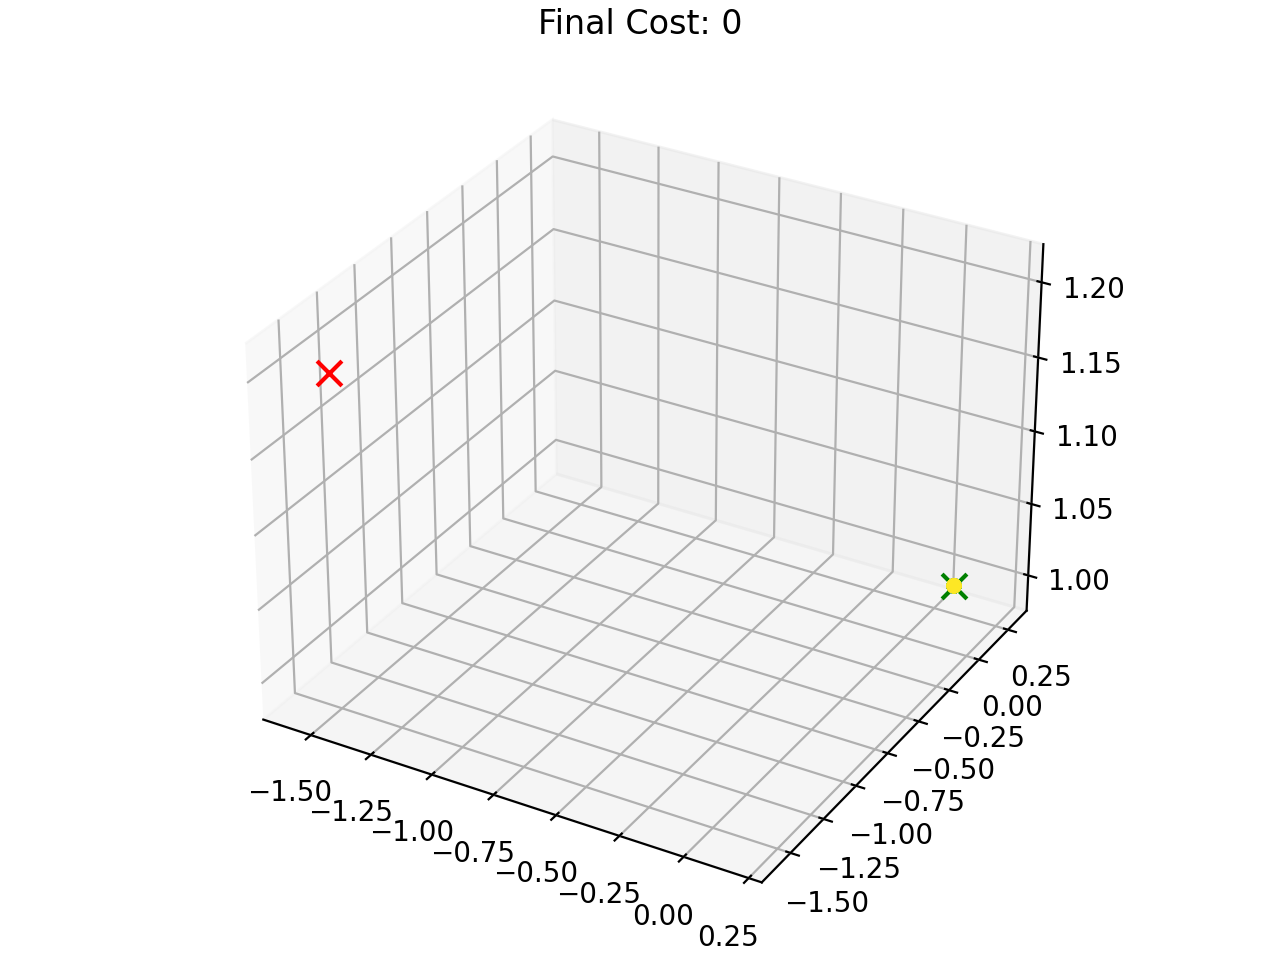
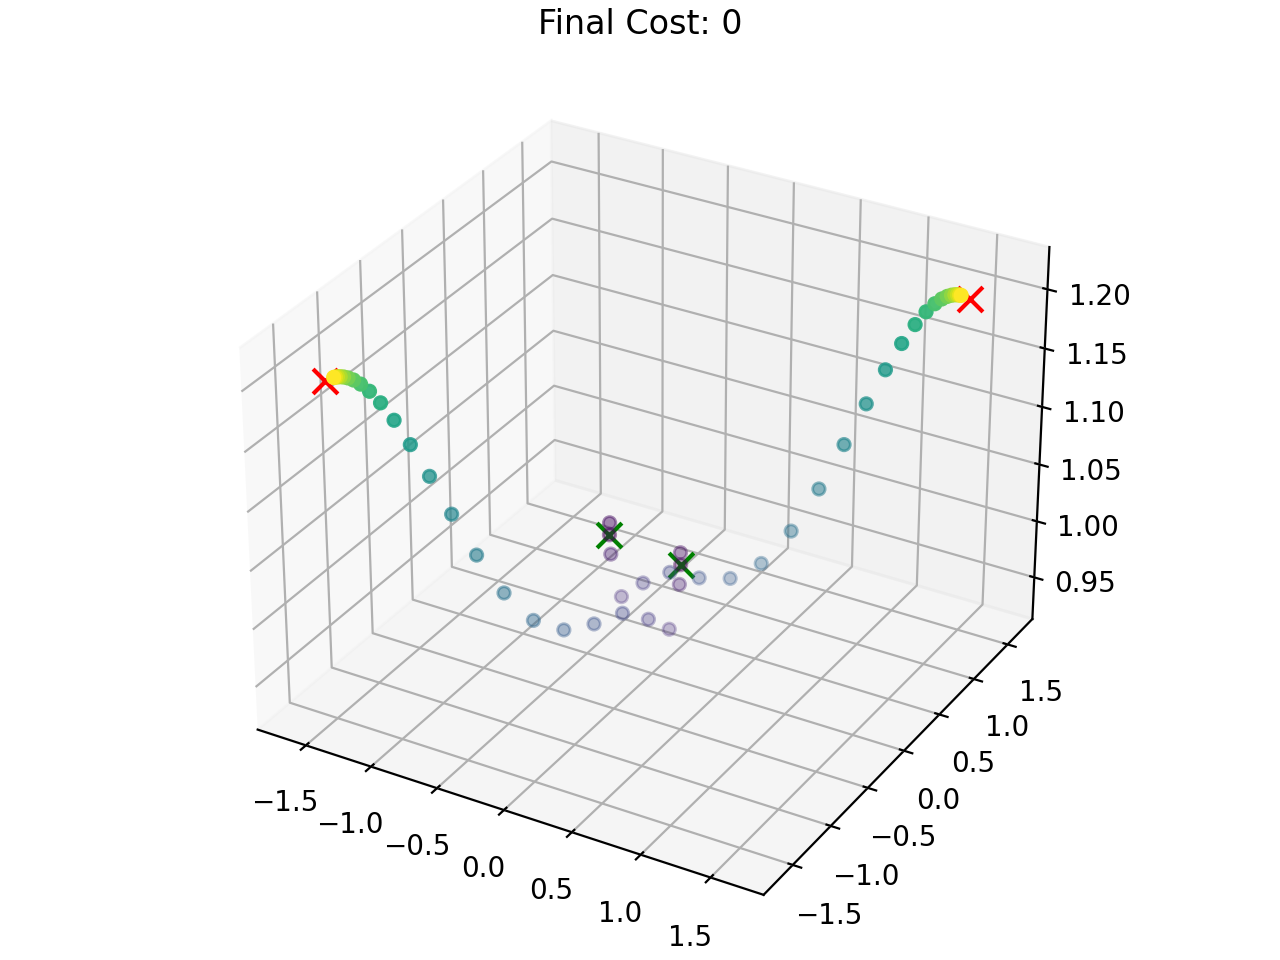
2-drone SCP is working!

Changed region(s): [[0.1875, 0.1562, 0.875, 1.0]]

diff --git a/distributed_SCP/DPscp/solve2.py b/distributed_SCP/DPscp/solve2.py
@@ -226,7 +226,7 @@ def multi_Quad_Dynamics(s, u, x_dims):
     x_ds = []
     for i in range(num_quadrotors):
         
-        tau_x, tau_y, tau_z, f_z = us[0], us[1], us[2], us[3]
+        tau_x, tau_y, tau_z, f_z = us[i][0], us[i][1], us[i][2], us[i][3]
         psi = xs[i][3]
         theta = xs[i][4]
         phi = xs[i][5]
@@ -269,127 +269,165 @@ def discretize(f, dt):
     return integrator
 
 
-"""Run and example"""
+"""Run an one-shot centralized example"""
 
-n_drones = 1
+# n_drones = 1
+# n_states = 12
+# n_controls = 4
+# g = 9.81
+# n = n_drones * n_states                                # total state dimension
+# m = n_drones * n_controls                              # total control dimension
+
+# # s_goal = np.array([-1.5, -1.5, 1.2, 0,  0 , 0, 0, 0, 0, 0, 0 , 0, #drone 1
+# #                    1.5, 1.5, 1.2, 0, 0 , 0, 0, 0, 0, 0, 0, 0 #drone 2
+# #                    ])                                                     
+# # s0 = np.array([0.1, 0.2, 1.0, 0, 0, 0, 0, 0, 0, 0, 0, 0, 
+# #                -0.5, 0.3, 1.0, 0, 0, 0, 0, 0, 0, 0, 0, 0])  
+
+# s_goal = np.array([-1.5, -1.5, 1.2, 0,  0 , 0, 0, 0, 0, 0, 0 , 0])  # for 1 drone only
+# s0 = np.array([0.1, 0.2, 1.0, 0, 0, 0, 0, 0, 0, 0, 0, 0])
+
+
+# dt = 0.1                             # discrete time resolution
+# T = 10.                              # total simulation time
+
+# x_dims = [12, 12]
+# fd = jax.jit(discretize(single_quad_dynamics,dt))
+
+# # SCP parameters
+
+# P = 1e3*np.eye(n)                    # terminal state cost matrix
+# Q = np.eye(n)*10  # state cost matrix
+# R = 1e-3*np.eye(m)                   # control cost matrix
+# ρ = 200                              # trust region parameter
+# tol = 5e-1                           # convergence tolerance
+# max_iters = 100                      # maximum number of SCP iterations
+
+# t = np.arange(0., T + dt, dt)
+# N = t.size - 1
+# # N = 50  
+
+# s, u = solve_scp(fd, P, Q, R, N, s_goal, s0, ρ, tol, max_iters, n_drones)
+
+# # Simulate open-loop control
+# for k in range(N):
+#     s[k+1] = fd(s[k], u[k])
+
+# # Plot state trajectories
+# fig, ax = plt.subplots(1, 3, figsize=(10, 3), dpi=150)
+# ylabels = (r'$x(t)$', r'$y(t)$', r'$z(t)$', r'$tau_x(t)$',r'$tau_y(t)$',r'$tau_z(t)$',r'$f_z(t)$')
+
+# for i in range(3):
+#     ax[i].plot(t, s[:, i], color='tab:blue')
+#     ax[i].axhline(s_goal[i], linestyle='--', color='tab:orange',label='reference position')
+#     ax[i].set_xlabel(r'$t$')
+#     ax[i].set_ylabel(ylabels[i])
+
+# plt.savefig('state_tracking(singleDrone).png',
+#             bbox_inches='tight')
+# plt.show()
+
+# #Plot control trajectories
+# fig, ax = plt.subplots(1, 4, figsize=(10, 3), dpi=150)
+# u_ref_upper = np.array([1, 1, 1, 10])
+# u_ref_lower = np.array([-1, -1, -1, 0])
+
+# for j in range(4):
+
+#     ax[j].plot(t[:-1], u[:, j])
+#     ax[j].axhline(u_ref_upper[j], linestyle='--',label='upper input bound')
+#     ax[j].axhline(u_ref_lower[j], linestyle='--',label='lower input input')
+#     ax[j].set_xlabel(r'$t$')
+#     ax[j].set_ylabel(ylabels[j+3])
+
+
+# plt.savefig('control_tracking(singleDrone).png',
+#             bbox_inches='tight')
+# plt.show()
+
+
+"""Run an example in receding-horizon"""
+n_agents = 2
 n_states = 12
-n_controls = 4
-g = 9.81
-n = n_drones * n_states                                # total state dimension
-m = n_drones * n_controls                              # total control dimension
-
-# s_goal = np.array([-1.5, -1.5, 1.2, 0,  0 , 0, 0, 0, 0, 0, 0 , 0, #drone 1
-#                    1.5, 1.5, 1.2, 0, 0 , 0, 0, 0, 0, 0, 0, 0 #drone 2
-#                    ])                                                     
-# s0 = np.array([0.1, 0.2, 1.0, 0, 0, 0, 0, 0, 0, 0, 0, 0, 
-#                -0.5, 0.3, 1.0, 0, 0, 0, 0, 0, 0, 0, 0, 0])  
-
-s_goal = np.array([-1.5, -1.5, 1.2, 0,  0 , 0, 0, 0, 0, 0, 0 , 0])  # for 1 drone only
-s0 = np.array([0.1, 0.2, 1.0, 0, 0, 0, 0, 0, 0, 0, 0, 0])
-
-
-dt = 0.1                             # discrete time resolution
-T = 10.                              # total simulation time
-
-x_dims = [12, 12]
-# fd = jax.jit(discretize(multi_Quad_Dynamics,dt))
-fd = jax.jit(discretize(single_quad_dynamics,dt))
-
-# SCP parameters
-
-P = 1e3*np.eye(n)                    # terminal state cost matrix
-Q = np.eye(n)*10  # state cost matrix
-R = 1e-3*np.eye(m)                   # control cost matrix
-ρ = 200                              # trust region parameter
-tol = 5e-1                           # convergence tolerance
-max_iters = 100                      # maximum number of SCP iterations
-
-t = np.arange(0., T + dt, dt)
-N = t.size - 1
-# N = 50  
-
-s, u = solve_scp(fd, P, Q, R, N, s_goal, s0, ρ, tol, max_iters, n_drones)
-
-# Simulate open-loop control
-for k in range(N):
-    s[k+1] = fd(s[k], u[k])
-
-# Plot state trajectories
-fig, ax = plt.subplots(1, 3, figsize=(10, 3), dpi=150)
-ylabels = (r'$x(t)$', r'$y(t)$', r'$z(t)$', r'$tau_x(t)$',r'$tau_y(t)$',r'$tau_z(t)$',r'$f_z(t)$')
-
-for i in range(3):
-    ax[i].plot(t, s[:, i], color='tab:blue')
-    ax[i].axhline(s_goal[i], linestyle='--', color='tab:orange',label='reference position')
-    ax[i].set_xlabel(r'$t$')
-    ax[i].set_ylabel(ylabels[i])
-
-plt.savefig('state_tracking(singleDrone).png',
-            bbox_inches='tight')
-plt.show()
-
-#Plot control trajectories
-fig, ax = plt.subplots(1, 4, figsize=(10, 3), dpi=150)
-u_ref_upper = np.array([1, 1, 1, 10])
-u_ref_lower = np.array([-1, -1, -1, 0])
-
-for j in range(4):
-
-    ax[j].plot(t[:-1], u[:, j])
-    ax[j].axhline(u_ref_upper[j], linestyle='--',label='upper input bound')
-    ax[j].axhline(u_ref_lower[j], linestyle='--',label='lower input input')
-    ax[j].set_xlabel(r'$t$')
-    ax[j].set_ylabel(ylabels[j+3])
-
-
-plt.savefig('control_tracking(singleDrone).png',
-            bbox_inches='tight')
-plt.show()
-
-
-
-"""Run SCP in receding horizon"""
-
+n_inputs=  4
 count = 0
-si = s0
+
 obj_list = []
 
+P = 1e3*np.eye(n_agents*n_states)                    # terminal state cost matrix
+Q = np.eye(n_agents*n_states)*10  # state cost matrix
+R = 1e-3*np.eye(n_agents*n_inputs)                   # control cost matrix
+ρ = 200                
+
 N = 15
-u_bar = np.zeros((N, m))
-s_bar = np.zeros((N + 1, n))
+# u_try = np.array([0, 0, 0, 4.9])
+
+u_try = np.array([0, 0, 0, 4.9,
+                  0, 0, 0, 4.9])
+
+dt = 0.1                             # discrete time resolution
+# T = 10. 
+x_dims = [n_states]*n_agents
+fd = jax.jit(discretize(multi_Quad_Dynamics,dt))
+
+
+s_goal = np.array([-1.5, -1.5, 1.2, 0,  0 , 0, 0, 0, 0, 0, 0 , 0, #drone 1
+                   1.5, 1.5, 1.2, 0, 0 , 0, 0, 0, 0, 0, 0, 0 #drone 2
+                   ])                                                     
+s0 = np.array([0.1, 0.2, 1.0, 0, 0, 0, 0, 0, 0, 0, 0, 0, 
+               -0.5, 0.3, 1.0, 0, 0, 0, 0, 0, 0, 0, 0, 0])  
+
+
+u_bar = np.tile(u_try ,(N,1))
+s_bar = np.zeros((N + 1, n_agents*n_states))
 s_bar[0] = s0
 for k in range(N):
     s_bar[k+1] = fd(s_bar[k], u_bar[k])
 
-X_trj =  np.zeros((0, n))  #Full trajectory over entire problem horizon (not just a single prediction horizon)
+X_trj =  np.zeros((0, n_agents*n_states))  #Full trajectory over entire problem horizon (not just a single prediction horizon)
 STEP_SIZE=1
 
 iterate = 0
 s_prev = None
+obj_prev = np.inf
+tol = 5e-1
 
-while not np.all(dec.distance_to_goal(si, s_goal.reshape(1,-1), n_agents = 1,n_states = 6,n_d= 3) < 0.1) :
-    s, u, obj = scp_iteration(fd, P, Q, R, N, s_bar, u_bar, s_goal, si,  ρ, iterate, s_prev, n_drones)
+si = s0
+while not np.all(dec.distance_to_goal(si, s_goal.reshape(1,-1), n_agents ,n_states,n_d= 3) < 0.1) :
+    s, u, obj = scp_iteration(fd, P, Q, R, N, s_bar, u_bar, s_goal, si,  ρ, iterate, s_prev, n_agents)
 
     s_prev = s
     
-    np.copyto(s_bar, s)
-    np.copyto(u_bar, u)
-
-    count +=1
-    obj_list.append(obj)
-    
-    print(f'current objective value is {obj}!\n')
-
-    X_trj = np.r_[X_trj, s[:STEP_SIZE]]
-    print(f'X_trj has shape {X_trj.shape}\n')
-
-
-    if count > 60:
-        print('max. number of outer iterations reached!')
+    diff_obj = np.abs(obj - obj_prev)
+    print(f'current diff_obj is {diff_obj}')
+    if diff_obj < tol:
+            
+        print('SCP converged')
         break
+    
+    else:
+        obj_prev = obj
+        #Re-initialize nominal trajectory to shift prediction horizon
+        s_bar = np.zeros((N + 1, n_agents*n_states))
+        s_bar[0] = s[STEP_SIZE]
+        u_bar = np.tile(u_try ,(N,1))
+        u_bar[0] = u[STEP_SIZE-1]
+
+        count +=1
+        
+        obj_list.append(obj)
+        
+        print(f'current objective value is {obj}!\n')
+
+        X_trj = np.r_[X_trj, s[:STEP_SIZE]]
+        print(f'X_trj has shape {X_trj.shape}\n')
+
+        if count >=60:
+            print('max iteration reached')
+            break
 
 # Plot state and control trajectories
 print(f'Full trajectory has shape {X_trj.shape}')
 fig = plt.figure(dpi=200)
 dec.plot_solve(X_trj,0,s_goal,x_dims,n_d = 3)
-plt.savefig('1quad_rhc_SCP.png')
+plt.savefig('2_quad_rhc_SCP.png')
